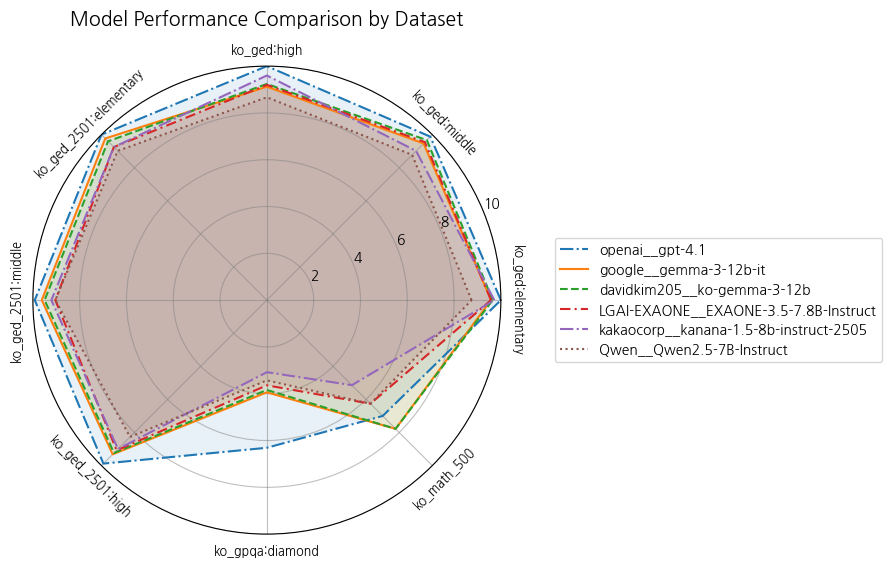
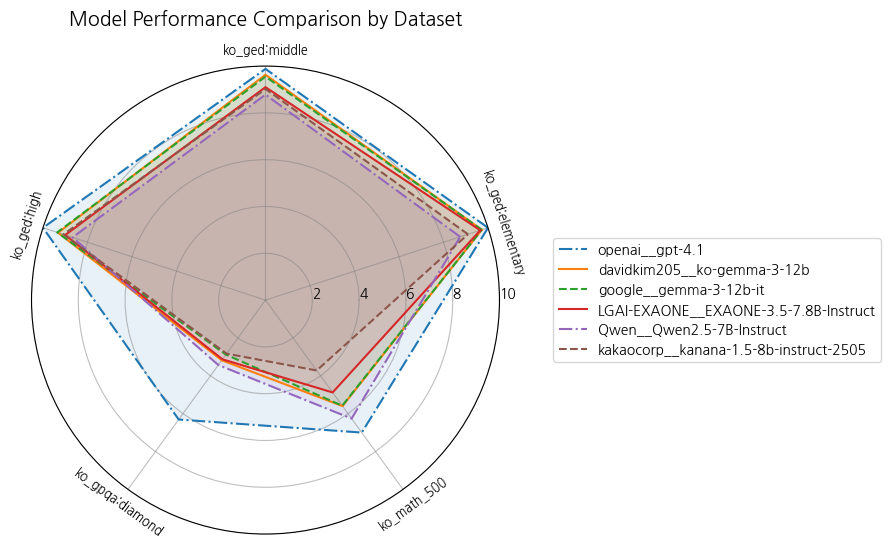
ko-ged-2501 삭제, ko-ged -> ko-ged-mc 이름 변경 #15

diff --git a/ko_lighteval.html b/ko_lighteval.html
@@ -184,12 +184,8 @@
                 <td style="vertical-align: middle; text-align: left;">Korean version of GPQA containing challenging physics questions designed to test deep understanding and logical reasoning.</td>
               </tr>
               <tr>
-                <td style="vertical-align: middle; text-align: left;"><a href="https://huggingface.co/datasets/davidkim205/ko_ged_elementary">ko-ged:elementary</a><br/><a href="https://huggingface.co/datasets/davidkim205/ko_ged_middle">ko-ged:middle</a><br/><a href="https://huggingface.co/datasets/davidkim205/ko_ged_high">ko-ged:high</a></td>
+                <td style="vertical-align: middle; text-align: left;"><a href="https://huggingface.co/datasets/davidkim205/ko_ged_mc_elementary">ko-ged-mc:elementary</a><br/><a href="https://huggingface.co/datasets/davidkim205/ko_ged_mc_middle">ko-ged-mc:middle</a><br/><a href="https://huggingface.co/datasets/davidkim205/ko_ged_mc_high">ko-ged-mc:high</a></td>
                 <td style="vertical-align: middle; text-align: left;">Korean GED exam questions spanning multiple subjects at elementary, middle, and high school levels to evaluate language comprehension and reasoning.</td>
-              </tr>
-              <tr>
-                <td style="vertical-align: middle; text-align: left;"><a href="https://huggingface.co/datasets/davidkim205/ko_ged_2501_elementary">ko-ged-2501:elementary</a><br/><a href="https://huggingface.co/datasets/davidkim205/ko_ged_2501_middle">ko-ged-2501:middle</a><br/><a href="https://huggingface.co/datasets/davidkim205/ko_ged_2501_high">ko-ged-2501:high</a><p></td>
-                <td style="vertical-align: middle; text-align: left;">Updated 2025 GED exam datasets structured by education level and subject, extending ko-ged with new questions for broader evaluation.</td>
               </tr>
             </tbody>
           </table>
@@ -263,14 +259,14 @@
 }</pre>
         </div>
 
-        <h3 class="title is-4 has-text-left">ko-ged</h3>
+        <h3 class="title is-4 has-text-left">ko-ged-mc</h3>
 
         <div class="content has-text-justified">
           <p>
-            <strong>ko-ged</strong> is a benchmark dataset designed to evaluate the comprehension and reasoning capabilities of large language models (LLMs) in the Korean language. The dataset comprises questions extracted from the General Equivalency Diploma (GED) exams administered at three distinct educational levels: elementary, middle, and high school. Specifically, the <strong>ko-ged</strong> dataset contains questions from the second GED exam of 2024, while <strong>ko-ged-2501</strong> corresponds to the first GED exam of 2025. All exam items are sourced from the official archives managed by the <a href="https://www.gumsi.or.kr/">Korean Ministry of Education</a>.
+            <strong>ko-ged-mc</strong> is a benchmark dataset designed to evaluate the comprehension and reasoning capabilities of large language models (LLMs) in the Korean language. The dataset comprises <strong>multiple-choice</strong> questions extracted from the General Equivalency Diploma (GED) exams administered at three distinct educational levels: elementary, middle, and high school. Specifically, the ko-ged dataset contains questions from the second GED exam of 2024. All exam items are sourced from the official archives managed by the <a href="https://www.gumsi.or.kr/">Korean Ministry of Education</a>.
           </p>
           <p>
-            Table 2 summarizes the subject domains covered by the ko-ged dataset across the three educational tiers. For each level, <code>Common Subjects</code> denote the core curriculum assessed uniformly across all exams, whereas <code>Additional Subjects</code> represent specialized topics tested depending on the specific educational stage.
+            Table 2 summarizes the subject domains covered by the ko-ged-mc dataset across the three educational tiers. For each level, <code>Common Subjects</code> denote the core curriculum assessed uniformly across all exams, whereas <code>Additional Subjects</code> represent specialized topics tested depending on the specific educational stage.
           </p>
         </div>
 
@@ -305,7 +301,7 @@
               </tr>
               <tr>
                 <td style="vertical-align: middle;">Middle</td>
-                <td rowspan="2" style="vertical-align: middle;">
+                <td style="vertical-align: middle;">
                   <ul style="margin: 0; padding-left: 16px; text-align: left; list-style-type: disc;">
                     <li>Technology &amp; Home Economics</li>
                     <li>Information Technology</li>
@@ -314,12 +310,18 @@
               </tr>
               <tr>
                 <td style="vertical-align: middle;">High</td>
+                <td style="vertical-align: middle;">
+                  <ul style="margin: 0; padding-left: 16px; text-align: left; list-style-type: disc;">
+                    <li>Technology &amp; Home Economics</li>
+                    <li>Korean History</li>
+                  </ul>
+                </td>
               </tr>
             </tbody>
           </table>
         </div>
         <br>
-        [Table 2] Subject Areas Included in the ko-ged Dataset by Educational Level
+        [Table 2] Subject Areas Included in the ko-ged-mc Dataset by Educational Level
         <br>
         <br>
 
@@ -337,10 +339,10 @@
           </ul>
 
           <p>
-            The datasets are separated by version (ko-ged / ko-ged-2501), educational level (E/M/H), and subject.
+            The datasets are separated by educational level (E/M/H), and subject.
           </p>
 
-          <h5 class="title is-6 has-text-left">ko-ged:elementary</h5>
+          <h5 class="title is-6 has-text-left">ko-ged-mc:elementary</h5>
           <pre>{
   "id": 1,
   "Domain": "영어",
@@ -351,7 +353,7 @@
   "Incorrect Answer 3": "Grapes"
 }</pre>
           <br>
-          <h5 class="title is-6 has-text-left">ko-ged:middle</h5>
+          <h5 class="title is-6 has-text-left">ko-ged-mc:middle</h5>
           <pre>{
   "id": 209,
   "Domain": "도덕",
@@ -362,7 +364,7 @@
   "Incorrect Answer 3": "칸트"
 }</pre>
           <br>
-          <h5 class="title is-6 has-text-left">ko-ged:high</h5>
+          <h5 class="title is-6 has-text-left">ko-ged-mc:high</h5>
           <pre>{
   "id": 46,
   "Domain": "수학",
@@ -493,13 +495,13 @@ D) {D}</pre>
             Figure 1 visualizes the performance scores of each model across benchmark datasets using radar charts, with accuracy normalized on a 0 to 10 scale to facilitate comparison among models.
           </p>
           <p>
-            As shown in Figure 1, scores for ko-gpqa and ko-math-500 were lower than those for ko-ged across all models, reflecting the higher difficulty of these datasets. In particular, ko-gpqa consists of question-answering tasks that require multi-document information aggregation, multi-step reasoning, and understanding of long contexts, which have been identified as challenging for general language models.
+            As shown in Figure 1, scores for ko-gpqa and ko-math-500 were lower than those for ko-ged-mc across all models, reflecting the higher difficulty of these datasets. In particular, ko-gpqa consists of question-answering tasks that require multi-document information aggregation, multi-step reasoning, and understanding of long contexts, which have been identified as challenging for general language models.
           </p>
           <p>
             GPT-4.1 achieved the highest average scores across all benchmarks; however, on the ko-math-500 dataset, Gemma-3 and Ko-Gemma-3 models scored 0.78 points higher than GPT-4.1. These two models share the same architecture, and while Ko-Gemma-3 is a fine-tuned variant of Gemma-3, the performance difference between them was minimal. This indicates that while GPT-4.1 is generally the strongest model overall, domain-specific or fine-tuned models can outperform it on specialized tasks such as mathematical reasoning.
           </p>
           <p>
-            Interestingly, Korean-specialized models such as EXAONE and Kanana performed comparably to Gemma-3 on the ko-ged dataset, demonstrating their effectiveness in Korean grammar error detection tasks. However, on the ko-math-500 dataset, they showed a significant performance gap compared to multilingual models like Gemma-3 and Ko-Gemma-3, suggesting limitations in mathematical reasoning or general-domain training coverage.
+            Interestingly, Korean-specialized models such as EXAONE and Kanana performed comparably to Gemma-3 on the ko-ged-mc dataset, demonstrating their effectiveness in Korean grammar error detection tasks. However, on the ko-math-500 dataset, they showed a significant performance gap compared to multilingual models like Gemma-3 and Ko-Gemma-3, suggesting limitations in mathematical reasoning or general-domain training coverage.
           </p>
         </div>
 
@@ -585,17 +587,14 @@ D) {D}</pre>
           </p>
         </div>
 
-        <div style="overflow-y: auto;">
+        <div class="content has-text-justified" style="overflow-y: auto;">
           <table class="table is-bordered is-striped is-hoverable">
             <thead>
               <tr>
                 <th style="text-align:center">Model</th>
-                <th style="text-align:center">ged:E</th>
-                <th style="text-align:center">ged:M</th>
-                <th style="text-align:center">ged:H</th>
-                <th style="text-align:center">ged2:E</th>
-                <th style="text-align:center">ged2:M</th>
-                <th style="text-align:center">ged2:H</th>
+                <th style="text-align:center">ged-mc:E</th>
+                <th style="text-align:center">ged-mc:M</th>
+                <th style="text-align:center">ged-mc:H</th>
                 <th style="text-align:center">gpqa</th>
                 <th style="text-align:center">math-500</th>
               </tr>
@@ -606,9 +605,6 @@ D) {D}</pre>
                 <td style="text-align:left"><strong>10</strong></td>
                 <td style="text-align:left"><strong>9.88</strong></td>
                 <td style="text-align:left"><strong>10</strong></td>
-                <td style="text-align:left"><strong>10</strong></td>
-                <td style="text-align:left"><strong>9.92</strong></td>
-                <td style="text-align:left"><strong>9.88</strong></td>
                 <td style="text-align:left"><strong>6.31</strong></td>
                 <td style="text-align:left">7</td>
               </tr>
@@ -617,9 +613,6 @@ D) {D}</pre>
                 <td style="text-align:left">9.58</td>
                 <td style="text-align:left">9.47</td>
                 <td style="text-align:left">9.12</td>
-                <td style="text-align:left">9.77</td>
-                <td style="text-align:left">9.62</td>
-                <td style="text-align:left">9.32</td>
                 <td style="text-align:left">3.94</td>
                 <td style="text-align:left"><strong>7.78</strong></td>
               </tr>
@@ -627,9 +620,6 @@ D) {D}</pre>
                 <td style="text-align:left"><a href="https://huggingface.co/davidkim205/ko-gemma-3-12b">Ko-Gemma-3-12b</a> (Ours)</td>
                 <td style="text-align:left">9.65</td>
                 <td style="text-align:left">9.67</td>
-                <td style="text-align:left">9.24</td>
-                <td style="text-align:left">9.6</td>
-                <td style="text-align:left">9.5</td>
                 <td style="text-align:left">9.24</td>
                 <td style="text-align:left">3.84</td>
                 <td style="text-align:left"><strong>7.78</strong></td>
@@ -639,9 +629,6 @@ D) {D}</pre>
                 <td style="text-align:left">9.58</td>
                 <td style="text-align:left">9.55</td>
                 <td style="text-align:left">9.2</td>
-                <td style="text-align:left">9.25</td>
-                <td style="text-align:left">9.04</td>
-                <td style="text-align:left">9.08</td>
                 <td style="text-align:left">3.64</td>
                 <td style="text-align:left">6.26</td>
               </tr>
@@ -650,9 +637,6 @@ D) {D}</pre>
                 <td style="text-align:left">9.72</td>
                 <td style="text-align:left">9.02</td>
                 <td style="text-align:left">9.6</td>
-                <td style="text-align:left">9.25</td>
-                <td style="text-align:left">9.21</td>
-                <td style="text-align:left">9</td>
                 <td style="text-align:left">3.08</td>
                 <td style="text-align:left">5.14</td>
               </tr>
@@ -661,9 +645,6 @@ D) {D}</pre>
                 <td style="text-align:left">8.75</td>
                 <td style="text-align:left">8.78</td>
                 <td style="text-align:left">8.67</td>
-                <td style="text-align:left">9.02</td>
-                <td style="text-align:left">9.04</td>
-                <td style="text-align:left">8.27</td>
                 <td style="text-align:left">3.43</td>
                 <td style="text-align:left">6.26</td>
               </tr>
